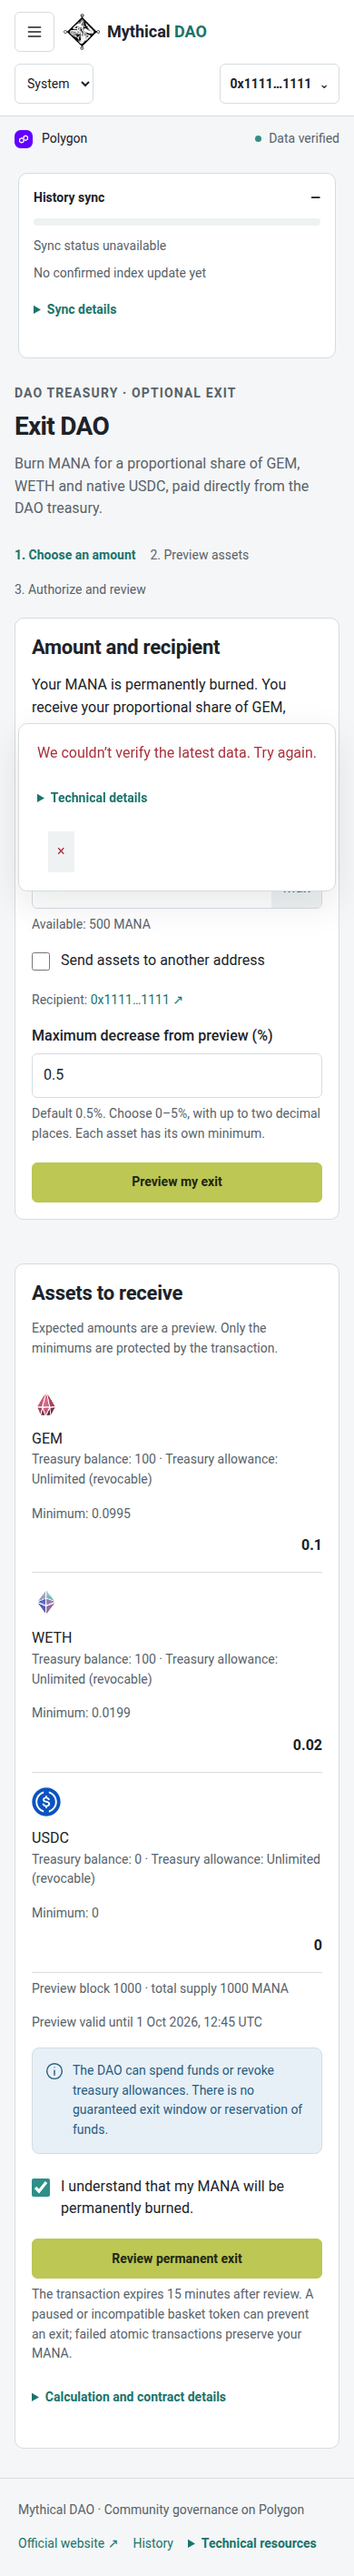
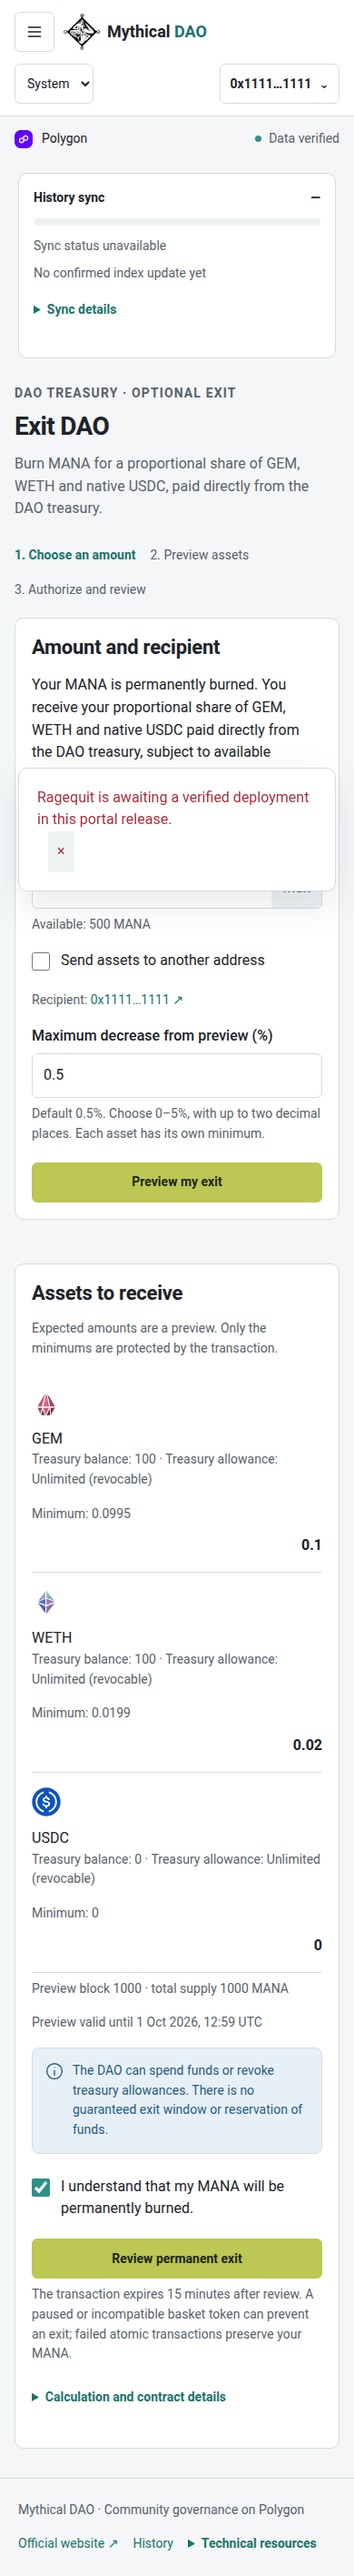
Show ragequit security warnings directly and record preview validation

Changed region(s): [[0.0923, 0.2797, 0.8615, 0.3107]]

diff --git a/services/dao-portal/src/ragequit-attestation.ts b/services/dao-portal/src/ragequit-attestation.ts
@@ -6,6 +6,7 @@ import {
 } from "viem";
 import type { PortalConfig } from "../shared/domain";
 import { tokenAbi, ragequitAbi } from "../shared/abis";
+import { ragequitErrors } from "../shared/ragequit-errors";
 import {
   assertRagequitCode,
   assertRagequitConfiguration,
@@ -36,23 +37,16 @@ export async function attestRagequitIntent(
       call.args[0].toLowerCase() !==
         cfg.contracts.ragequitModule!.address.toLowerCase()
     )
-      throw Error(
-        "Only the reviewed ragequit module can receive MANA authorization.",
-      );
+      throw Error(ragequitErrors.spender);
   } else {
     const call = decodeFunctionData({ abi: ragequitAbi, data: intent.data });
     if (
       call.functionName !== "redeem" ||
       !validRagequitRecipient(call.args[1], cfg)
     )
-      throw Error(
-        "Choose a payout recipient other than the treasury, module or token contracts.",
-      );
+      throw Error(ragequitErrors.recipient);
   }
-  if (!client)
-    throw Error(
-      "An independent connection is required to verify the ragequit module.",
-    );
+  if (!client) throw Error(ragequitErrors.connection);
   // The public client has its own RPC transport, separate from the backend. No cached attestation.
   try {
     if ((await client.getChainId()) !== cfg.chainId) throw Error("chain");
@@ -70,8 +64,6 @@ export async function attestRagequitIntent(
     if (!before.hash || before.hash !== after.hash) throw Error("reorg");
     assertRagequitCode(code);
   } catch {
-    throw Error(
-      "The independent check could not verify the reviewed ragequit module. No MANA authorization or exit was sent. Try again after the connection or deployment is verified.",
-    );
+    throw Error(ragequitErrors.verification);
   }
 }

diff --git a/services/dao-portal/shared/ragequit-security.ts b/services/dao-portal/shared/ragequit-security.ts
@@ -1,6 +1,7 @@
 import { isAddress, keccak256, zeroAddress, type Hex } from "viem";
 import type { PortalConfig } from "./domain";
 import trust from "./generated/ragequit-trust.json";
+import { ragequitErrors } from "./ragequit-errors";
 
 const roles = ["treasury", "mana", "gem", "weth", "usdcNative"] as const;
 export interface RagequitTrust {
@@ -16,10 +17,7 @@ export function assertRagequitConfiguration(
   cfg: PortalConfig,
   pin: RagequitTrust = trust,
 ) {
-  if (!pin.moduleAddress)
-    throw Error(
-      "Ragequit is awaiting a verified deployment in this portal release.",
-    );
+  if (!pin.moduleAddress) throw Error(ragequitErrors.pending);
   if (
     pin.version !== 1 ||
     cfg.chainId !== pin.chainId ||
@@ -34,9 +32,7 @@ export function assertRagequitConfiguration(
         pin.addresses[role].toLowerCase(),
     )
   )
-    throw Error(
-      "Ragequit configuration differs from the deployment reviewed for this portal release.",
-    );
+    throw Error(ragequitErrors.configuration);
 }
 
 export function assertRagequitCode(
@@ -44,9 +40,7 @@ export function assertRagequitCode(
   pin: RagequitTrust = trust,
 ) {
   if (!code || code === "0x" || keccak256(code) !== pin.runtimeHash)
-    throw Error(
-      "The ragequit module code does not match the reviewed release. MANA authorization is blocked.",
-    );
+    throw Error(ragequitErrors.runtime);
 }
 
 export function validRagequitRecipient(recipient: string, cfg: PortalConfig) {

diff --git a/services/dao-portal/shared/ragequit-errors.ts b/services/dao-portal/shared/ragequit-errors.ts
@@ -1,0 +1,15 @@
+// Fixed English messages safe to display directly; RPC/provider details never enter this list.
+export const ragequitErrors = {
+  pending: "Ragequit is awaiting a verified deployment in this portal release.",
+  configuration:
+    "Ragequit configuration differs from the deployment reviewed for this portal release.",
+  runtime:
+    "The ragequit module code does not match the reviewed release. MANA authorization is blocked.",
+  spender: "Only the reviewed ragequit module can receive MANA authorization.",
+  recipient:
+    "Choose a payout recipient other than the treasury, module or token contracts.",
+  connection:
+    "An independent connection is required to verify the ragequit module.",
+  verification:
+    "The independent check could not verify the reviewed ragequit module. No MANA authorization or exit was sent. Try again after the connection or deployment is verified.",
+} as const;

diff --git a/services/dao-portal/src/ui.tsx b/services/dao-portal/src/ui.tsx
@@ -3,6 +3,7 @@ import { useAccount } from "wagmi";
 import type { Health, PortalConfig } from "../shared/domain";
 import { m } from "./i18n";
 import { messages } from "./messages.en";
+import { ragequitErrors } from "../shared/ragequit-errors";
 export const PortalContext = createContext<{
   config: PortalConfig;
   health?: Health;
@@ -276,7 +277,10 @@ export function ErrorNotice({ error }: { error: string }) {
       "This proposal is still awaiting network confirmations. Try again shortly.",
     ),
   };
-  const readable = Object.values(messages).some((value) => value === error);
+  const readable = [
+    ...Object.values(messages),
+    ...Object.values(ragequitErrors),
+  ].some((value) => value === error);
   return (
     <div role="alert" className="error">
       <p>

diff --git a/services/dao-portal/tests/browser/flows.spec.ts b/services/dao-portal/tests/browser/flows.spec.ts
@@ -289,6 +289,14 @@ test("exit edits and expiration invalidate acknowledgment; an unpinned module ca
   await expect(page.getByRole("alert")).toContainText(
     "awaiting a verified deployment",
   );
+  await expect(
+    page
+      .getByRole("alert")
+      .getByText(
+        "Ragequit is awaiting a verified deployment in this portal release.",
+        { exact: true },
+      ),
+  ).toBeVisible();
   await page.clock.fastForward(121000);
   await expect(
     page.getByRole("button", { name: "Review permanent exit", exact: true }),

diff --git a/services/dao-portal/docs/AUDIT_REMEDIATION_2026_10_01.md b/services/dao-portal/docs/AUDIT_REMEDIATION_2026_10_01.md
@@ -5,7 +5,7 @@
 ## Alterações
 
 1. **Destinatários:** o contrato rejeita MANA, GEM, WETH e USDC, além de zero, tesouraria e módulo. Portal e preflight aplicam a mesma regra; carteiras que sejam contratos continuam possíveis.
-2. **Identidade do módulo:** frontend e Worker incorporam o hash do runtime com os cinco imutáveis instanciados. O gerador utiliza as declarações nomeadas do AST do compilador, não posições ou identificadores adivinhados. Getters corretos não bastam. Código ausente/alterado, configuração divergente, RPC indisponível ou reorg impedem aprovação e saída. O frontend consulta o seu próprio RPC antes da revisão e novamente antes de assinar; a API não fornece a raiz de confiança.
+2. **Identidade do módulo:** frontend e Worker incorporam o hash do runtime com os cinco imutáveis instanciados. O gerador utiliza as declarações nomeadas do AST do compilador, não posições ou identificadores adivinhados. Getters corretos não bastam. Os avisos fixos de segurança aparecem diretamente no ecrã, sem ficarem escondidos em detalhes técnicos. Código ausente/alterado, configuração divergente, RPC indisponível ou reorg impedem aprovação e saída. O frontend consulta o seu próprio RPC antes da revisão e novamente antes de assinar; a API não fornece a raiz de confiança.
 3. **Endereço fixado:** `shared/generated/ragequit-trust.json` mantém `moduleAddress: null` enquanto não existe implantação verificada. Depois de verificar a implantação em dois RPCs, `scripts/pin-ragequit-deployment.mjs` fixa o endereço no código; publicar frontend e Worker reconstruídos. Nenhum endereço previsto ou de fork é tratado como implantação pública.
 4. **Compilação:** Foundry 1.3.5 na CI, solc 0.8.30, optimizer 200, Cancun; remappings explícitos e autodeteção desativada. Standard JSON recompilado com criação e runtime idênticos. O pacote de 5050 bytes ficou arquivado em `deployments/historical/ragequit-pre-audit-2026-10-01/`.
 5. **Autorizações:** `authorized` exige os três valores máximos na autorização inicial; `revoked` exige zero; `operational AMOUNT_IN_MANA` verifica suficiência para uma saída concreta, aceitando decrementos normais. `VERIFICATION_BLOCK` permite verificar o bloco confirmado da autorização inicial. Não há redução automática de pagamentos para caber numa autorização.
@@ -36,3 +36,11 @@ A fixação de runtime protege contra uma API/configuração que anuncie um mód
 [Mutação controlada](evidence/audit-remediation-2026-10-01/mutations.json): baseline aprovado; retirar `nonReentrant` ou atrasar a queima provoca falhas. Execuções isoladas; os mutantes não entraram no código nem no pacote de implantação. [Recompilação independente da ferramenta Foundry](evidence/audit-remediation-2026-10-01/reproducibility.json) idêntica; isto não é uma auditoria independente.
 
 Os resultados finais de testes, browser, build e espaço em disco constam de `validation.json` neste diretório. As capturas com dados controlados não representam saldos ou autorizações reais; os testes de assinatura usam uma carteira simulada. A ativação de uma saída pública permanece pendente de reteste do pacote, implantação verificada, aprovação da DAO e pequena saída real consentida. `independentReview` continua `pending`.
+
+## Publicação do portal de teste
+
+Código publicado no GitHub no commit `c8b3beb0f81fd54255bae069a932f6eb88f7825d`. Worker de staging `97e3aad5-bd28-4996-b8ae-d97ce43542b9`; deployment Vercel `dpl_n3hjhYpUXYHoptwaj9KPD7MVpfpW`, estado READY, target production apenas do projeto isolado `mythical-dao-preview`. [Portal de teste](https://dao-preview.mythicalbeings.io).
+
+[Verificação pública](evidence/audit-remediation-2026-10-01/public-smoke.json): HTTP 200 no portal/configuração/saúde, bundle com o novo hash e bloqueio de implantação pendente, governação habilitada e ragequit indisponível por ausência do módulo. Tesouraria e histórico renderizaram no browser, sem erros reportados. O histórico completo ainda não está sincronizado. Não houve alteração do domínio oficial da DAO, contratos públicos ou notificações.
+
+Gitleaks não encontrou segredos nas alterações preparadas para o commit; os artefactos públicos foram também comparados com as chaves Infura/Graph locais, sem correspondências. Preflight de disco de 2 GB aprovado; cerca de 355 GB disponíveis após a validação, sem instalações nem downloads de browsers e com a reserva de 40 GB preservada.

diff --git a/services/dao-portal/docs/IMPLEMENTATION_STATUS.md b/services/dao-portal/docs/IMPLEMENTATION_STATUS.md
@@ -1,6 +1,6 @@
 # Entrega — Governor atual e ragequit sem migração
 
-1 de outubro, após Claude/Grok: [correções aplicadas e pacote substituído](AUDIT_REMEDIATION_2026_10_01.md). Novo contrato rejeita os quatro tokens como destinatários; frontend e Worker exigem código e endereço fixados; compilação reproduzível; verificador distingue aprovação inicial e suficiência operacional. [USDC.e e USDT0 avaliados](RAGEQUIT_CANDIDATE_ASSETS.md), sem ampliação da cesta. Reteste independente e ativação financeira continuam pendentes. Os registos abaixo conservam os resultados históricos.
+1 de outubro, após Claude/Grok: [correções aplicadas e pacote substituído](AUDIT_REMEDIATION_2026_10_01.md). Novo contrato rejeita os quatro tokens como destinatários; frontend e Worker exigem código e endereço fixados; compilação reproduzível; verificador distingue aprovação inicial e suficiência operacional. [USDC.e e USDT0 avaliados](RAGEQUIT_CANDIDATE_ASSETS.md), sem ampliação da cesta. Portal de teste e Worker de staging atualizados e verificados publicamente (governação disponível, módulo ausente). Reteste independente e ativação financeira continuam pendentes. Os registos abaixo conservam os resultados históricos.
 
 1 de outubro, ragequit: [implantação preparada para a carteira escolhida](RAGEQUIT_PREFLIGHT.md), com transação sem assinatura, fontes completas para compilação reproduzível, concordância de dois RPCs e simulação do script de implantação. Novo ensaio do Governor real passou no bloco 94764463; 16 testes Solidity/2048 casos de fuzz e 140 testes portal/scripts passaram, assim como tipos/build. Slither executado e 51 alertas documentados com triagem interna. Revisão independente, implantação pública, autorizações e saída real continuam pendentes.
 
